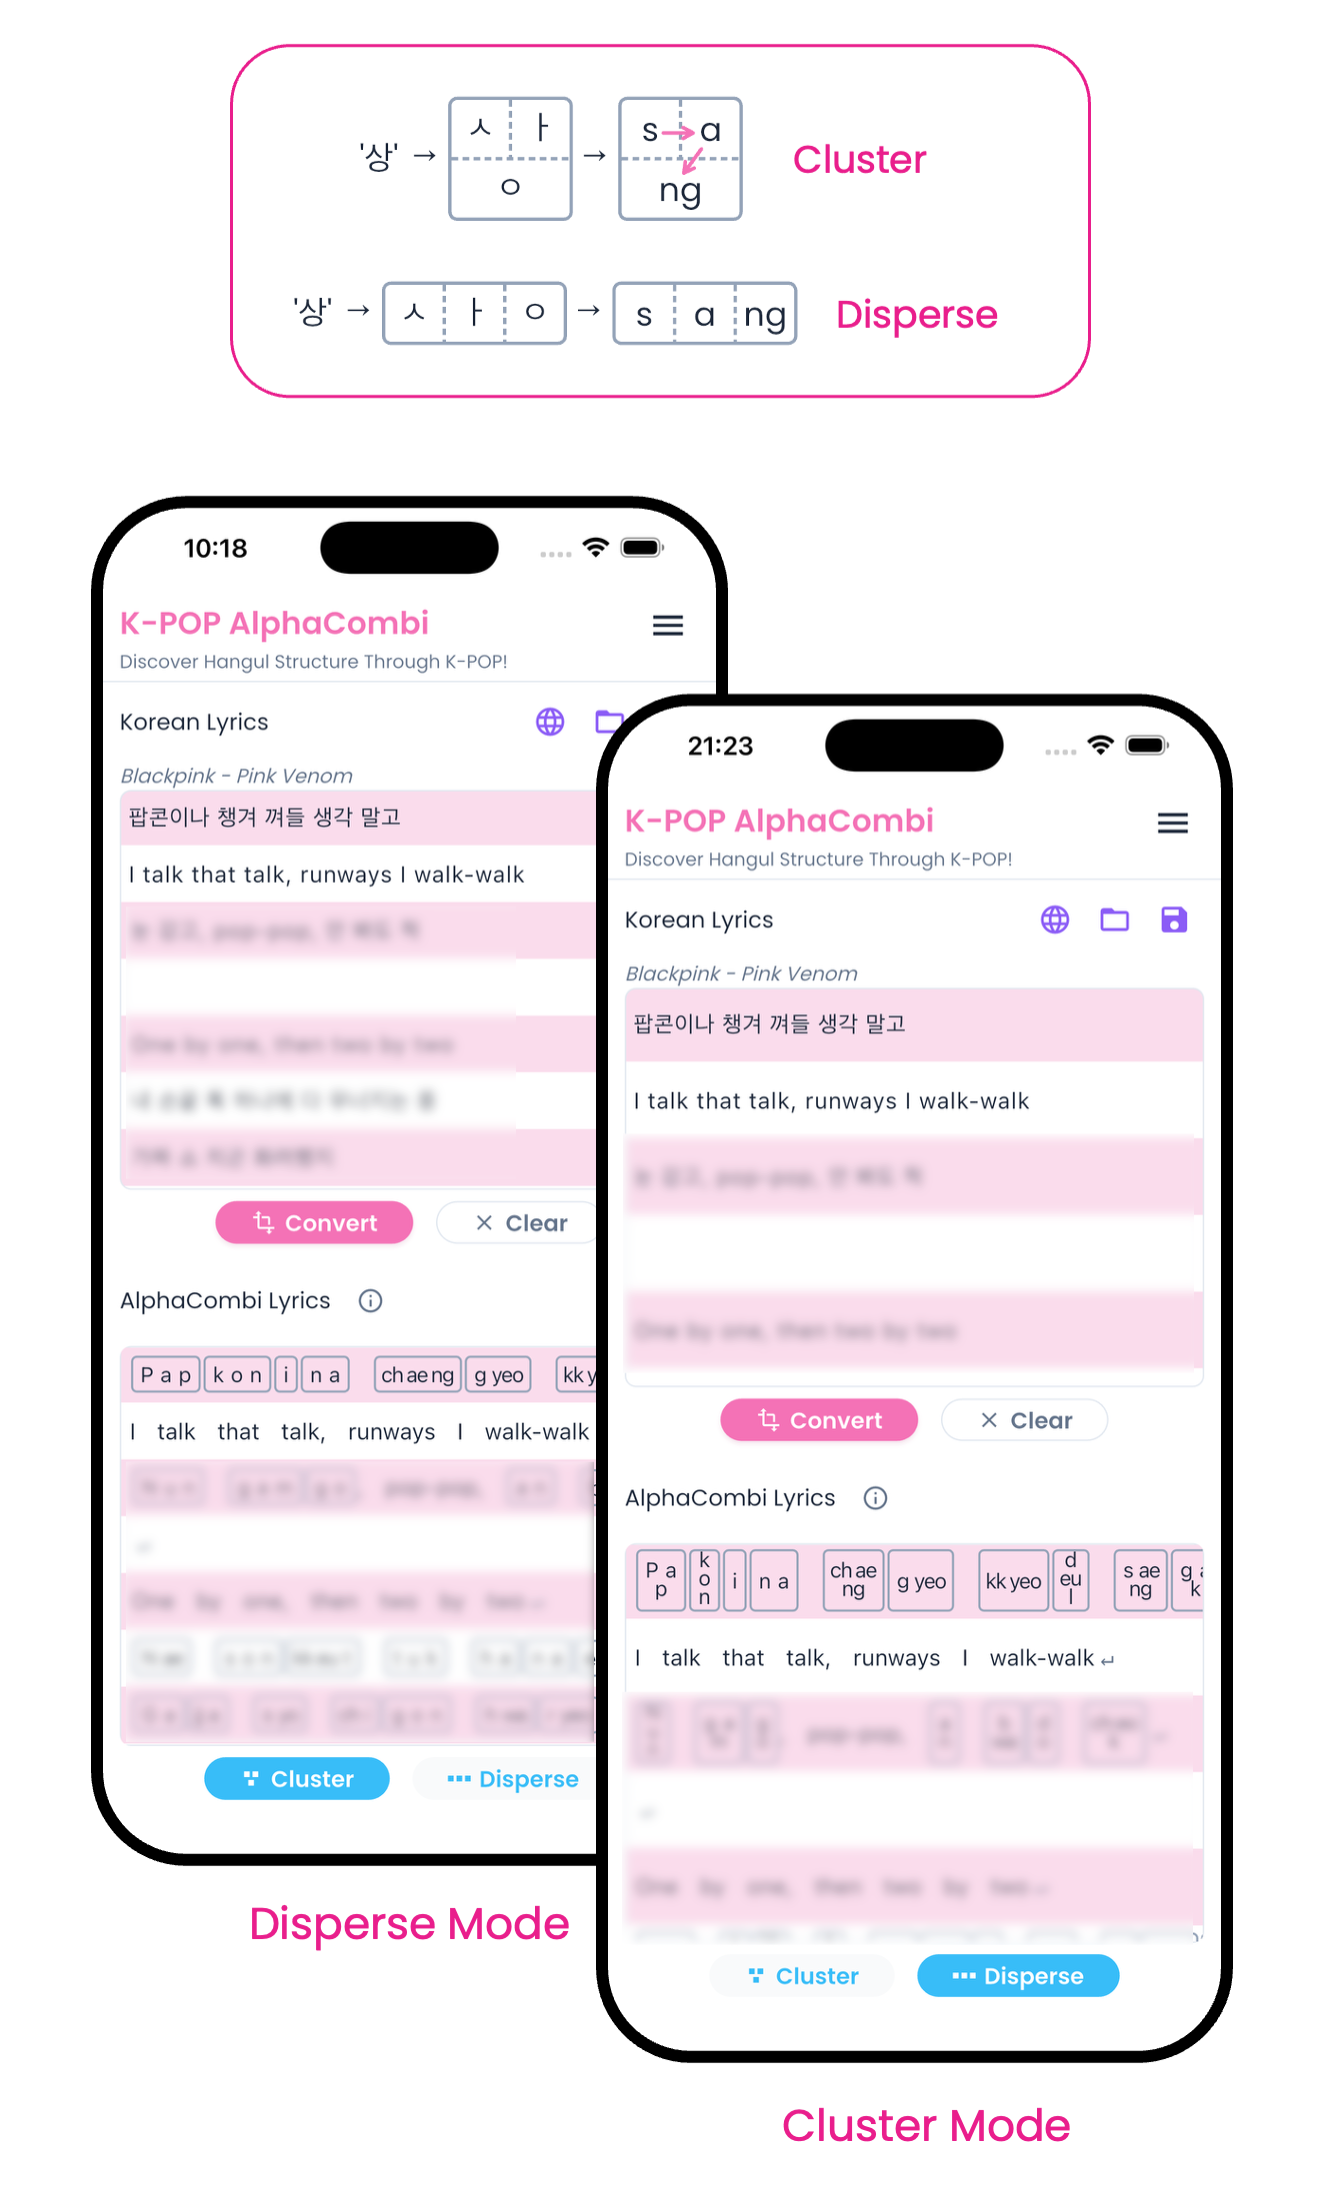
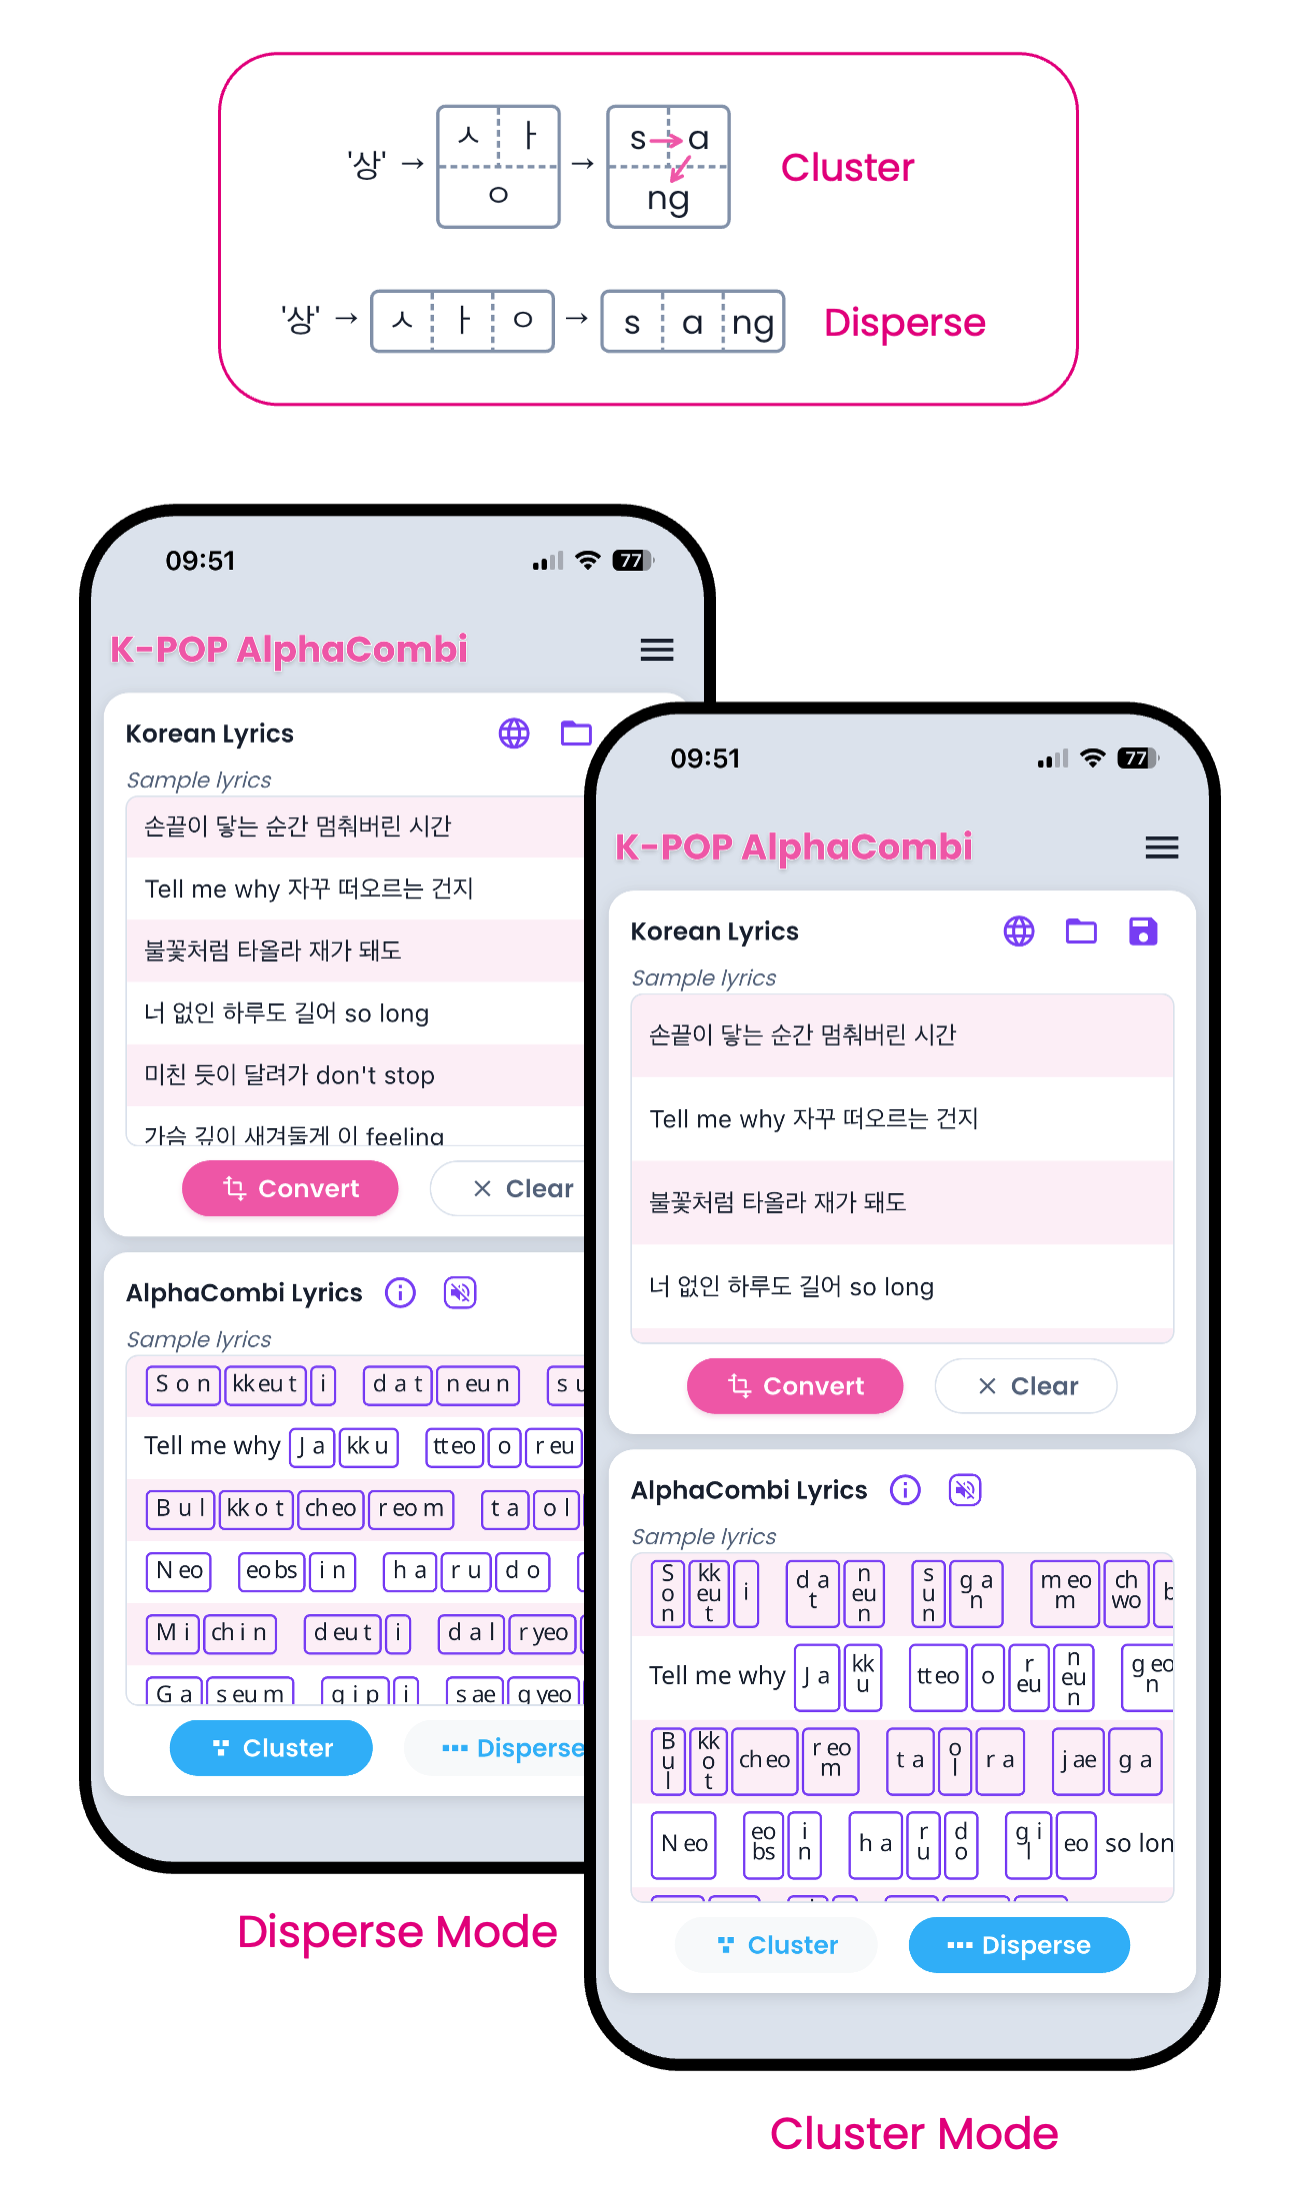
v2.0.1화면을 반영하여 스크린샷 이미지를 전면 변경

Changed region(s): [[0.0612, 0.2163, 0.948, 0.9886], [0.1529, 0.0, 0.8257, 0.1854], [0.7951, 0.0309, 0.8257, 0.0618]]

diff --git a/k-alphacombi/index.html b/k-alphacombi/index.html
@@ -95,14 +95,14 @@
     </section>
 
     <!-- ============================================ -->
-    <!-- SECTION 3: HOW IT WORKS (3 STEPS)            -->
+    <!-- SECTION 3: HOW IT WORKS (2 STEPS)            -->
     <!-- ============================================ -->
     <section id="how" class="section section-pink">
         <div class="container">
-            <h2>Three Taps. <span class="accent">That's It.</span></h2>
+            <h2>Two Taps. <span class="accent">That's It.</span></h2>
             <p class="section-sub">Paste lyrics, tap Convert, then practice reading along</p>
             <div class="screenshot-showcase">
-                <img src="images/ss-three-taps.png" alt="Three steps: Paste lyrics, tap Convert, read along"
+                <img src="images/ss-two-taps.png" alt="Two steps: Paste lyrics, tap Convert, read along"
                     class="screenshot-img" loading="lazy">
             </div>
         </div>
